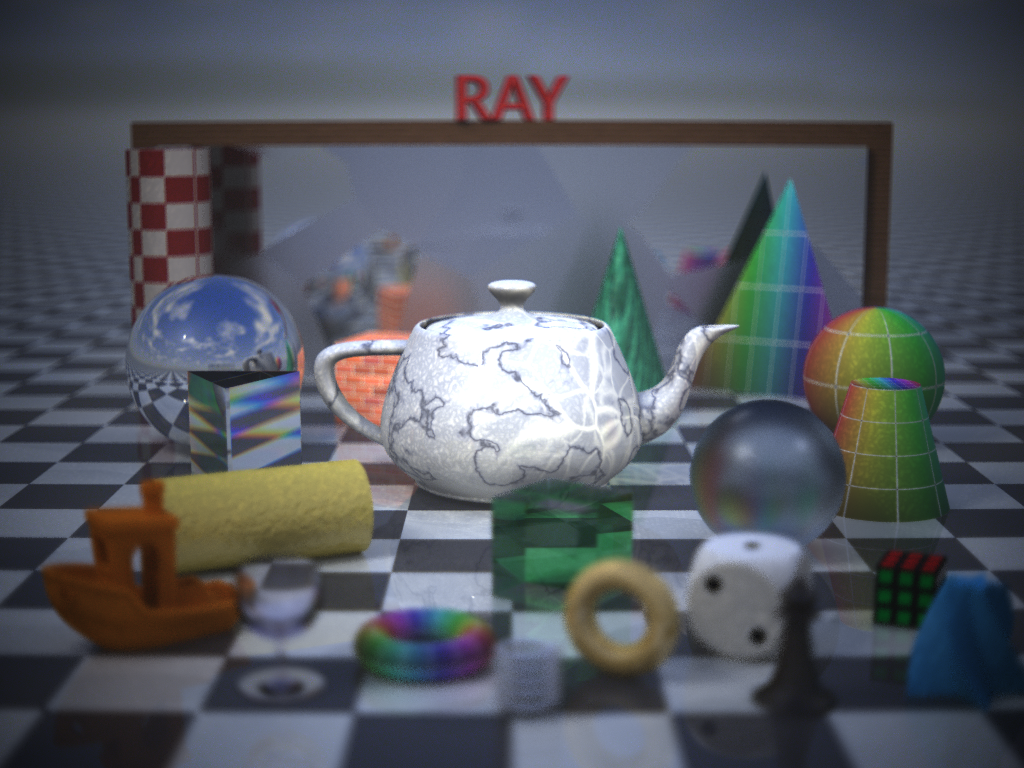
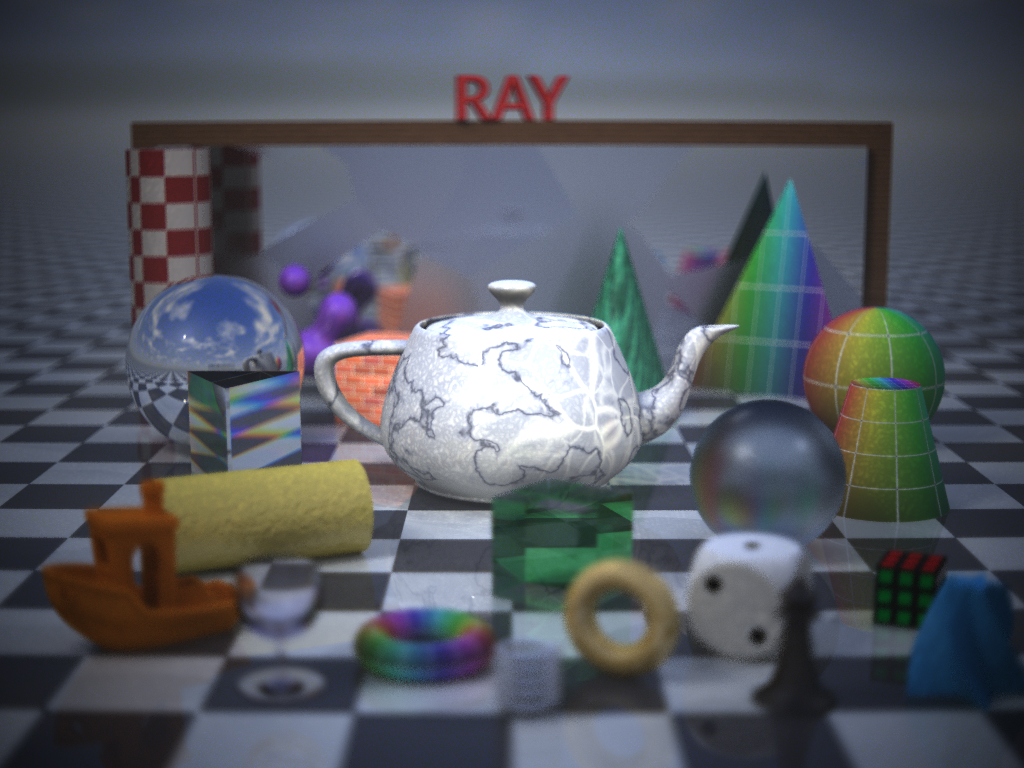
Release 2026-alpha-0.19: implicit surfaces, metaballs and fractals
- implicit: a surface from a formula in x, y and z (CExpression: a
  small compiled language with parameters, functions and exact
  gradients by forward-mode differentiation), found by stepping and
  bisection, faster with a Lipschitz bound; a csg solid.
- blob: metaballs with Wyvill's falloff, found exactly as a degree-6
  polynomial between the places a ray enters and leaves balls.
- fractal: mandelbulb, Menger sponge and Sierpinski tetrahedron by
  sphere tracing a distance estimate.
- CFieldShape: shared scale, spherical surface coordinates and a
  marching-tetrahedra preview for the editor; all three in its Add menu.
- implicit_test, blob_test and fractal_test with render, round-trip
  and network tests; format_test checks; a metaball cluster in the
  torture test, its references and full-size image regenerated.

CHANGELOG.md, README.md, scenes/README.md and tools/README.md updated.

Changed region(s): [[0.25, 0.3438, 0.375, 0.5312]]

diff --git a/CHANGELOG.md b/CHANGELOG.md
@@ -10,6 +10,13 @@ Every change that alters rendered output shows its before and after images here.
 
 ## [Unreleased]
 
+## [2026-alpha-0.19] - 2026-11-21
+
+Solids from mathematics: implicit surfaces given by a formula in a small built-in language with
+exact gradients, metaballs found exactly as polynomials along each ray, and fractals (a mandelbulb,
+the Menger sponge and the Sierpinski tetrahedron) found by sphere tracing a distance estimate.
+Scenes without the new objects render byte for byte as before.
+
 ### Added
 
 - **Implicit surfaces (`implicit`).** A surface given by a formula in x, y and z: where it is zero,
@@ -73,7 +80,9 @@ Every change that alters rendered output shows its before and after images here.
 
   ![Before and after: the torture test at 0.18 and 0.19](docs/images/changelog/torture-blob.png)
 
-  The metaballs stand to the right of the mirror sphere, against the mirror wall.
+  The metaballs stand to the right of the mirror sphere, in front of the frosted mirror wall (the
+  crop below is the full-size image, enlarged). The full-size adaptive render took 66,659 CPU-seconds,
+  2% more than 0.18's 65,259 (94 minutes on this machine while it ran tests too).
 
 ## [2026-alpha-0.18] - 2026-11-21
 
@@ -1857,7 +1866,8 @@ The ray tracing code itself is unchanged.
 Original development of the distributed ray tracer: the MFC scene editor, the PVM ray engine, and
 the ray thrower, built with Visual C++ 4–6 on Windows and with `make` on Unix.
 
-[Unreleased]: https://github.com/jnaujok/Ray/compare/2026-alpha-0.18...HEAD
+[Unreleased]: https://github.com/jnaujok/Ray/compare/2026-alpha-0.19...HEAD
+[2026-alpha-0.19]: https://github.com/jnaujok/Ray/compare/2026-alpha-0.18...2026-alpha-0.19
 [2026-alpha-0.18]: https://github.com/jnaujok/Ray/compare/2026-alpha-0.17...2026-alpha-0.18
 [2026-alpha-0.17]: https://github.com/jnaujok/Ray/compare/2026-alpha-0.16...2026-alpha-0.17
 [2026-alpha-0.16]: https://github.com/jnaujok/Ray/compare/2026-alpha-0.15...2026-alpha-0.16
